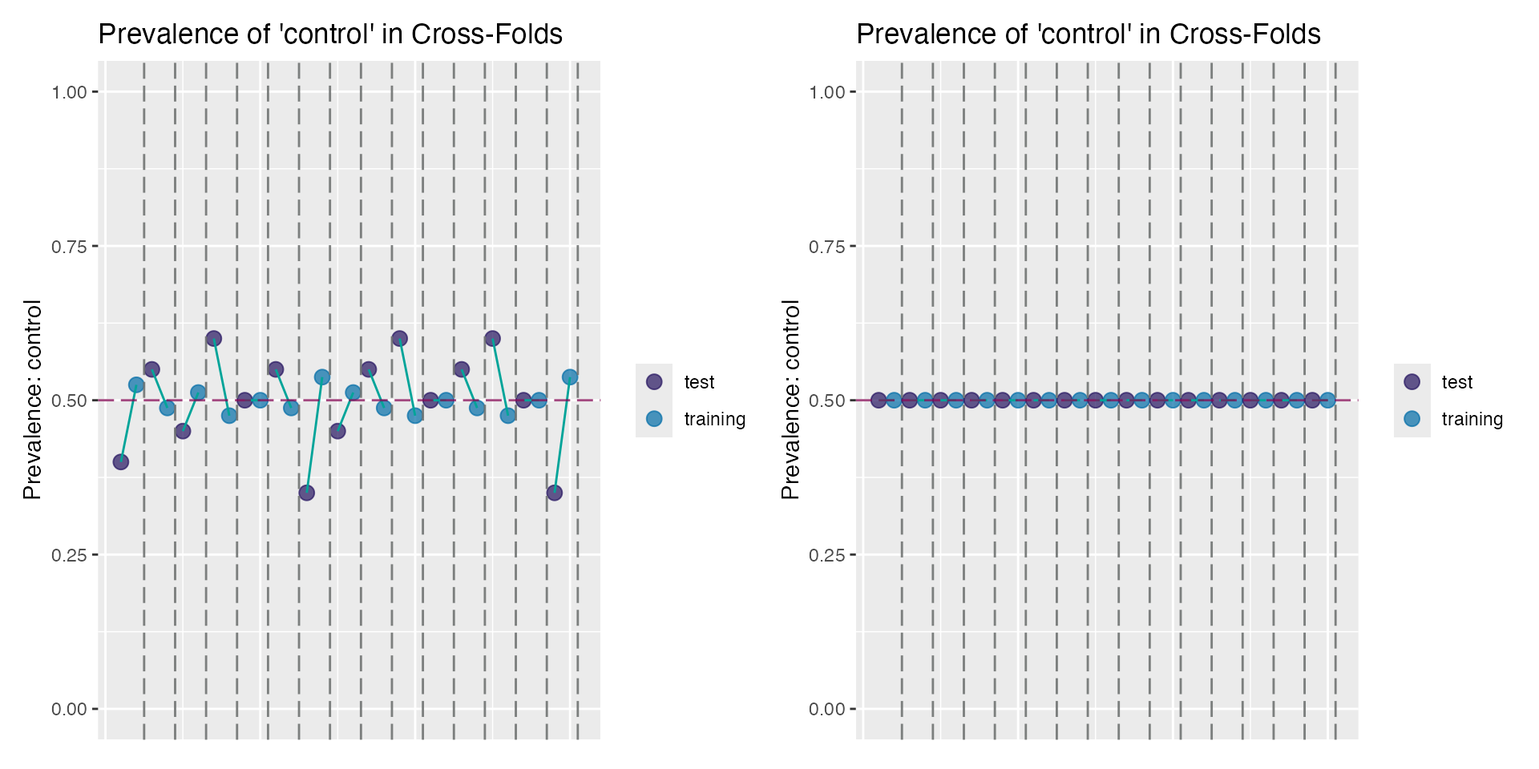
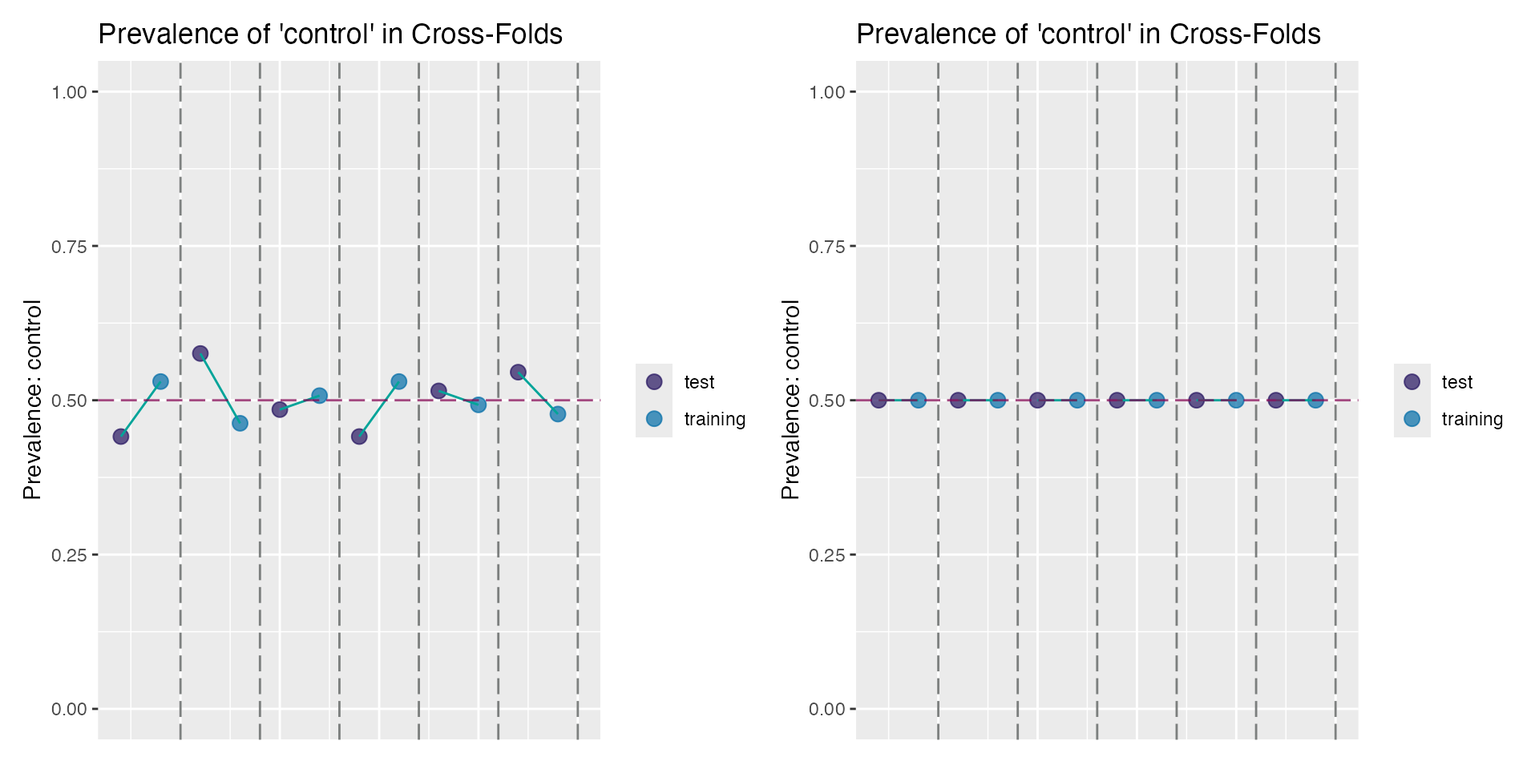
Built site for featureselectr@0.0.1.9001: 60847ba

Changed region(s): [[0.0625, 0.0938, 0.375, 0.9688], [0.5625, 0.0938, 0.875, 0.9688]]

diff --git a/dev/reference/get_fs_features.html b/dev/reference/get_fs_features.html
@@ -1,7 +1,7 @@
 <!DOCTYPE html>
-<!-- Generated by pkgdown: do not edit by hand --><html lang="en"><head><meta http-equiv="Content-Type" content="text/html; charset=UTF-8"><meta charset="utf-8"><meta http-equiv="X-UA-Compatible" content="IE=edge"><meta name="viewport" content="width=device-width, initial-scale=1, shrink-to-fit=no"><title>Get Feature Selection Markers — get_fs_features • featureselectr</title><script src="../deps/jquery-3.6.0/jquery-3.6.0.min.js"></script><meta name="viewport" content="width=device-width, initial-scale=1, shrink-to-fit=no"><link href="../deps/bootstrap-5.3.1/bootstrap.min.css" rel="stylesheet"><script src="../deps/bootstrap-5.3.1/bootstrap.bundle.min.js"></script><link href="../deps/Roboto-0.4.9/font.css" rel="stylesheet"><link href="../deps/Source_Code_Pro-0.4.9/font.css" rel="stylesheet"><link href="../deps/font-awesome-6.5.2/css/all.min.css" rel="stylesheet"><link href="../deps/font-awesome-6.5.2/css/v4-shims.min.css" rel="stylesheet"><script src="../deps/headroom-0.11.0/headroom.min.js"></script><script src="../deps/headroom-0.11.0/jQuery.headroom.min.js"></script><script src="../deps/bootstrap-toc-1.0.1/bootstrap-toc.min.js"></script><script src="../deps/clipboard.js-2.0.11/clipboard.min.js"></script><script src="../deps/search-1.0.0/autocomplete.jquery.min.js"></script><script src="../deps/search-1.0.0/fuse.min.js"></script><script src="../deps/search-1.0.0/mark.min.js"></script><!-- pkgdown --><script src="../pkgdown.js"></script><meta property="og:title" content="Get Feature Selection Markers — get_fs_features"><meta name="description" content="Function to return the maximum, se1, and se2 features from either
-forward or backward selection from a feature_select object."><meta property="og:description" content="Function to return the maximum, se1, and se2 features from either
-forward or backward selection from a feature_select object."><meta name="robots" content="noindex"></head><body>
+<!-- Generated by pkgdown: do not edit by hand --><html lang="en"><head><meta http-equiv="Content-Type" content="text/html; charset=UTF-8"><meta charset="utf-8"><meta http-equiv="X-UA-Compatible" content="IE=edge"><meta name="viewport" content="width=device-width, initial-scale=1, shrink-to-fit=no"><title>Get Feature Selection Markers — get_fs_features • featureselectr</title><script src="../deps/jquery-3.6.0/jquery-3.6.0.min.js"></script><meta name="viewport" content="width=device-width, initial-scale=1, shrink-to-fit=no"><link href="../deps/bootstrap-5.3.1/bootstrap.min.css" rel="stylesheet"><script src="../deps/bootstrap-5.3.1/bootstrap.bundle.min.js"></script><link href="../deps/Roboto-0.4.9/font.css" rel="stylesheet"><link href="../deps/Source_Code_Pro-0.4.9/font.css" rel="stylesheet"><link href="../deps/font-awesome-6.5.2/css/all.min.css" rel="stylesheet"><link href="../deps/font-awesome-6.5.2/css/v4-shims.min.css" rel="stylesheet"><script src="../deps/headroom-0.11.0/headroom.min.js"></script><script src="../deps/headroom-0.11.0/jQuery.headroom.min.js"></script><script src="../deps/bootstrap-toc-1.0.1/bootstrap-toc.min.js"></script><script src="../deps/clipboard.js-2.0.11/clipboard.min.js"></script><script src="../deps/search-1.0.0/autocomplete.jquery.min.js"></script><script src="../deps/search-1.0.0/fuse.min.js"></script><script src="../deps/search-1.0.0/mark.min.js"></script><!-- pkgdown --><script src="../pkgdown.js"></script><meta property="og:title" content="Get Feature Selection Markers — get_fs_features"><meta name="description" content="Returns the maximum, se1, and se2 features from
+a completed feature_select object."><meta property="og:description" content="Returns the maximum, se1, and se2 features from
+a completed feature_select object."><meta name="robots" content="noindex"></head><body>
     <a href="#container" class="visually-hidden-focusable">Skip to content</a>
 
 
@@ -36,8 +36,8 @@ forward or backward selection from a feature_select object."><meta name="robots"
     </div>
 
     <div class="ref-description section level2">
-    <p>Function to return the maximum, se1, and se2 features from either
-forward or backward selection from a <code>feature_select</code> object.</p>
+    <p>Returns the <code>maximum</code>, <code>se1</code>, and <code>se2</code> features from
+a completed <code>feature_select</code> object.</p>
     </div>
 
     <div class="section level2">
@@ -50,7 +50,8 @@ forward or backward selection from a <code>feature_select</code> object.</p>
 
 
 <dl><dt id="arg-x">x<a class="anchor" aria-label="anchor" href="#arg-x"></a></dt>
-<dd><p>A <code>feature_select</code> search object.</p></dd>
+<dd><p>A <code>feature_select</code> class object from a call
+call to <code><a href="feature_selection.html">feature_selection()</a></code>.</p></dd>
 
 </dl></div>
     <div class="section level2">
@@ -75,12 +76,11 @@ cost function.</p></dd>
     <div class="section level2">
     <h2 id="ref-examples">Examples<a class="anchor" aria-label="anchor" href="#ref-examples"></a></h2>
     <div class="sourceCode"><pre class="sourceCode r"><code><span class="r-in"><span><span class="va">data</span>  <span class="op">&lt;-</span> <span class="fu">wranglr</span><span class="fu">::</span><span class="va"><a href="https://stufield.github.io/wranglr/reference/simdata.html" class="external-link">simdata</a></span></span></span>
-<span class="r-in"><span><span class="va">feats</span> <span class="op">&lt;-</span> <span class="fu"><a href="https://rdrr.io/r/base/attributes.html" class="external-link">attributes</a></span><span class="op">(</span><span class="va">data</span><span class="op">)</span><span class="op">$</span><span class="va">sig_feats</span><span class="op">$</span><span class="va">class</span></span></span>
+<span class="r-in"><span><span class="va">feats</span> <span class="op">&lt;-</span> <span class="fu"><a href="https://rdrr.io/r/base/attr.html" class="external-link">attr</a></span><span class="op">(</span><span class="va">data</span>, <span class="st">"sig_feats"</span><span class="op">)</span><span class="op">$</span><span class="va">class</span></span></span>
 <span class="r-in"><span><span class="va">fs</span> <span class="op">&lt;-</span> <span class="fu"><a href="feature_selection.html">feature_selection</a></span><span class="op">(</span><span class="va">data</span>, candidate_features <span class="op">=</span> <span class="va">feats</span>,</span></span>
 <span class="r-in"><span>                        search_type <span class="op">=</span> <span class="fu"><a href="search_type.html">search_type_forward_model</a></span><span class="op">(</span><span class="op">)</span>,</span></span>
 <span class="r-in"><span>                        model_type  <span class="op">=</span> <span class="fu"><a href="model_type.html">model_type_lr</a></span><span class="op">(</span><span class="st">"class_response"</span><span class="op">)</span>,</span></span>
-<span class="r-in"><span>                        stratified  <span class="op">=</span> <span class="cn">TRUE</span>, cost <span class="op">=</span> <span class="st">"AUC"</span>,</span></span>
-<span class="r-in"><span>                        runs <span class="op">=</span> <span class="fl">2L</span>, folds <span class="op">=</span> <span class="fl">2L</span><span class="op">)</span></span></span>
+<span class="r-in"><span>                        stratify    <span class="op">=</span> <span class="cn">TRUE</span>, runs <span class="op">=</span> <span class="fl">2L</span>, folds <span class="op">=</span> <span class="fl">2L</span><span class="op">)</span></span></span>
 <span class="r-in"><span><span class="va">fs_obj</span> <span class="op">&lt;-</span> <span class="fu"><a href="Search.html">Search</a></span><span class="op">(</span><span class="va">fs</span><span class="op">)</span></span></span>
 <span class="r-msg co"><span class="r-pr">#&gt;</span> <span style="color: #00BBBB;">ℹ</span> <span style="color: #0000BB; font-weight: bold;">Starting the Feature Selection algorithm ...</span></span>
 <span class="r-msg co"><span class="r-pr">#&gt;</span> <span style="color: #BB00BB;">──</span> Using `Forward-Stepwise` model search <span style="color: #BB00BB;">──────────────────────────────</span></span>

diff --git a/dev/reference/feature_selection.html b/dev/reference/feature_selection.html
@@ -57,7 +57,7 @@ cost function, and an underlying data structure for use by other functions.</p>
 <span>  folds <span class="op">=</span> <span class="fl">1L</span>,</span>
 <span>  cost <span class="op">=</span> <span class="fu"><a href="https://rdrr.io/r/base/c.html" class="external-link">c</a></span><span class="op">(</span><span class="st">"AUC"</span>, <span class="st">"R2"</span>, <span class="st">"CCC"</span>, <span class="st">"MSE"</span>, <span class="st">"sens"</span>, <span class="st">"spec"</span><span class="op">)</span>,</span>
 <span>  bootstrap <span class="op">=</span> <span class="cn">FALSE</span>,</span>
-<span>  stratified <span class="op">=</span> <span class="cn">FALSE</span>,</span>
+<span>  stratify <span class="op">=</span> <span class="cn">FALSE</span>,</span>
 <span>  strat_column <span class="op">=</span> <span class="cn">NULL</span>,</span>
 <span>  random_seed <span class="op">=</span> <span class="fl">101L</span></span>
 <span><span class="op">)</span></span>
@@ -96,7 +96,7 @@ call to one of the <code><a href="search_type.html">search_type()</a></code> fun
 
 
 <dt id="arg-runs">runs<a class="anchor" aria-label="anchor" href="#arg-runs"></a></dt>
-<dd><p><code>integer(1)</code>. How many runs to perform.</p></dd>
+<dd><p><code>integer(1)</code>. How many runs (repeats) to perform.</p></dd>
 
 
 <dt id="arg-folds">folds<a class="anchor" aria-label="anchor" href="#arg-folds"></a></dt>
@@ -132,15 +132,15 @@ with replacement to generate a training set of equivalent size.
 The samples not chosen during sampling make up the test set.</p></dd>
 
 
-<dt id="arg-stratified">stratified<a class="anchor" aria-label="anchor" href="#arg-stratified"></a></dt>
+<dt id="arg-stratify">stratify<a class="anchor" aria-label="anchor" href="#arg-stratify"></a></dt>
 <dd><p><code>logical(1)</code>. Should cross-validation folds be
 stratified based upon the column specified in <code>strat_column</code>?</p></dd>
 
 
 <dt id="arg-strat-column">strat_column<a class="anchor" aria-label="anchor" href="#arg-strat-column"></a></dt>
 <dd><p><code>character(1)</code>. Which column to use for stratification
-of cross-validation. If <code>NULL</code> (default), column name
-<code>"Response"</code> will be used (and thus must be present).</p></dd>
+of cross-validation. If <code>NULL</code> (default), column name corresponding
+to the <code>response</code> parameter from the <code><a href="model_type.html">?model_type</a></code> will be used.</p></dd>
 
 
 <dt id="arg-random-seed">random_seed<a class="anchor" aria-label="anchor" href="#arg-random-seed"></a></dt>
@@ -232,7 +232,7 @@ Elements of Statistical Learning: Data Mining, Inference, and Prediction.
 <span class="r-in"><span><span class="co"># Setup response variable</span></span></span>
 <span class="r-in"><span><span class="va">data</span><span class="op">$</span><span class="va">class_response</span> <span class="op">&lt;-</span> <span class="fu"><a href="https://rdrr.io/r/base/factor.html" class="external-link">factor</a></span><span class="op">(</span><span class="va">data</span><span class="op">$</span><span class="va">class_response</span><span class="op">)</span></span></span>
 <span class="r-in"><span></span></span>
-<span class="r-in"><span><span class="va">mt</span> <span class="op">&lt;-</span> <span class="fu"><a href="model_type.html">model_type_lr</a></span><span class="op">(</span>response <span class="op">=</span> <span class="st">"class_response"</span><span class="op">)</span></span></span>
+<span class="r-in"><span><span class="va">mt</span> <span class="op">&lt;-</span> <span class="fu"><a href="model_type.html">model_type_lr</a></span><span class="op">(</span><span class="st">"class_response"</span><span class="op">)</span></span></span>
 <span class="r-in"><span><span class="va">cf</span> <span class="op">&lt;-</span> <span class="st">"sens"</span></span></span>
 <span class="r-in"><span><span class="va">sm</span> <span class="op">&lt;-</span> <span class="fu"><a href="search_type.html">search_type_forward_model</a></span><span class="op">(</span><span class="fl">15L</span>, display_name <span class="op">=</span> <span class="st">"Feature Selection Algorithm"</span><span class="op">)</span></span></span>
 <span class="r-in"><span><span class="va">ft</span> <span class="op">&lt;-</span> <span class="fu">helpr</span><span class="fu">:::</span><span class="fu">get_analytes</span><span class="op">(</span><span class="va">data</span><span class="op">)</span>   <span class="co"># select candidate features</span></span></span>
@@ -262,7 +262,7 @@ Elements of Statistical Learning: Data Mining, Inference, and Prediction.
 <span class="r-in"><span></span></span>
 <span class="r-in"><span><span class="co"># Using the S3 Update method to modify existing `feature_select` object:</span></span></span>
 <span class="r-in"><span><span class="co">#   change model type, cost function, and random seed</span></span></span>
-<span class="r-in"><span><span class="va">fs2</span> <span class="op">&lt;-</span> <span class="fu"><a href="https://rdrr.io/r/stats/update.html" class="external-link">update</a></span><span class="op">(</span><span class="va">fs</span>, model_type <span class="op">=</span> <span class="fu"><a href="model_type.html">model_type_nb</a></span><span class="op">(</span>response <span class="op">=</span> <span class="st">"class_response"</span><span class="op">)</span>,</span></span>
+<span class="r-in"><span><span class="va">fs2</span> <span class="op">&lt;-</span> <span class="fu"><a href="https://rdrr.io/r/stats/update.html" class="external-link">update</a></span><span class="op">(</span><span class="va">fs</span>, model_type <span class="op">=</span> <span class="fu"><a href="model_type.html">model_type_nb</a></span><span class="op">(</span><span class="st">"class_response"</span><span class="op">)</span>,</span></span>
 <span class="r-in"><span>              cost <span class="op">=</span> <span class="st">"AUC"</span>, random_seed <span class="op">=</span> <span class="fl">99L</span><span class="op">)</span></span></span>
 <span class="r-in"><span><span class="va">fs2</span></span></span>
 <span class="r-msg co"><span class="r-pr">#&gt;</span> <span style="color: #BB00BB;">══</span> Feature Selection Object <span style="color: #BB00BB;">═══════════════════════════════════════════</span></span>

diff --git a/dev/reference/setup_cross.html b/dev/reference/setup_cross.html
@@ -1,7 +1,23 @@
 <!DOCTYPE html>
-<!-- Generated by pkgdown: do not edit by hand --><html lang="en"><head><meta http-equiv="Content-Type" content="text/html; charset=UTF-8"><meta charset="utf-8"><meta http-equiv="X-UA-Compatible" content="IE=edge"><meta name="viewport" content="width=device-width, initial-scale=1, shrink-to-fit=no"><title>Set up Cross-Validation Folds — setup_cross • featureselectr</title><script src="../deps/jquery-3.6.0/jquery-3.6.0.min.js"></script><meta name="viewport" content="width=device-width, initial-scale=1, shrink-to-fit=no"><link href="../deps/bootstrap-5.3.1/bootstrap.min.css" rel="stylesheet"><script src="../deps/bootstrap-5.3.1/bootstrap.bundle.min.js"></script><link href="../deps/Roboto-0.4.9/font.css" rel="stylesheet"><link href="../deps/Source_Code_Pro-0.4.9/font.css" rel="stylesheet"><link href="../deps/font-awesome-6.5.2/css/all.min.css" rel="stylesheet"><link href="../deps/font-awesome-6.5.2/css/v4-shims.min.css" rel="stylesheet"><script src="../deps/headroom-0.11.0/headroom.min.js"></script><script src="../deps/headroom-0.11.0/jQuery.headroom.min.js"></script><script src="../deps/bootstrap-toc-1.0.1/bootstrap-toc.min.js"></script><script src="../deps/clipboard.js-2.0.11/clipboard.min.js"></script><script src="../deps/search-1.0.0/autocomplete.jquery.min.js"></script><script src="../deps/search-1.0.0/fuse.min.js"></script><script src="../deps/search-1.0.0/mark.min.js"></script><!-- pkgdown --><script src="../pkgdown.js"></script><meta property="og:title" content="Set up Cross-Validation Folds — setup_cross"><meta name="description" content="This S3 method sets up the internal the non-stratified cross-validation.
-Since these are mostly internal methods, documentation is minimal."><meta property="og:description" content="This S3 method sets up the internal the non-stratified cross-validation.
-Since these are mostly internal methods, documentation is minimal."><meta name="robots" content="noindex"></head><body>
+<!-- Generated by pkgdown: do not edit by hand --><html lang="en"><head><meta http-equiv="Content-Type" content="text/html; charset=UTF-8"><meta charset="utf-8"><meta http-equiv="X-UA-Compatible" content="IE=edge"><meta name="viewport" content="width=device-width, initial-scale=1, shrink-to-fit=no"><title>Set up Cross-Validation Folds — setup_cross • featureselectr</title><script src="../deps/jquery-3.6.0/jquery-3.6.0.min.js"></script><meta name="viewport" content="width=device-width, initial-scale=1, shrink-to-fit=no"><link href="../deps/bootstrap-5.3.1/bootstrap.min.css" rel="stylesheet"><script src="../deps/bootstrap-5.3.1/bootstrap.bundle.min.js"></script><link href="../deps/Roboto-0.4.9/font.css" rel="stylesheet"><link href="../deps/Source_Code_Pro-0.4.9/font.css" rel="stylesheet"><link href="../deps/font-awesome-6.5.2/css/all.min.css" rel="stylesheet"><link href="../deps/font-awesome-6.5.2/css/v4-shims.min.css" rel="stylesheet"><script src="../deps/headroom-0.11.0/headroom.min.js"></script><script src="../deps/headroom-0.11.0/jQuery.headroom.min.js"></script><script src="../deps/bootstrap-toc-1.0.1/bootstrap-toc.min.js"></script><script src="../deps/clipboard.js-2.0.11/clipboard.min.js"></script><script src="../deps/search-1.0.0/autocomplete.jquery.min.js"></script><script src="../deps/search-1.0.0/fuse.min.js"></script><script src="../deps/search-1.0.0/mark.min.js"></script><!-- pkgdown --><script src="../pkgdown.js"></script><meta property="og:title" content="Set up Cross-Validation Folds — setup_cross"><meta name="description" content="These S3 methods set up the internal cross-validation.
+Methods exist for both stratified and non-stratified scenarios.
+Since these are mostly internal methods, documentation is minimal.
+The stratified version is a S3 method that sets up the
+internal cross-validation for stratified folds.
+Stratified implies that the structure (proportions) of the response
+variable is maintained (i.e. the proportion of disease samples in the
+fold is comparable to the disease proportion in the full training set).
+The plotting routine allows one to visually check
+the cross-validation stratification for bias."><meta property="og:description" content="These S3 methods set up the internal cross-validation.
+Methods exist for both stratified and non-stratified scenarios.
+Since these are mostly internal methods, documentation is minimal.
+The stratified version is a S3 method that sets up the
+internal cross-validation for stratified folds.
+Stratified implies that the structure (proportions) of the response
+variable is maintained (i.e. the proportion of disease samples in the
+fold is comparable to the disease proportion in the full training set).
+The plotting routine allows one to visually check
+the cross-validation stratification for bias."><meta name="robots" content="noindex"></head><body>
     <a href="#container" class="visually-hidden-focusable">Skip to content</a>
 
 
@@ -36,8 +52,16 @@ Since these are mostly internal methods, documentation is minimal."><meta name="
     </div>
 
     <div class="ref-description section level2">
-    <p>This S3 method sets up the internal the <em>non-stratified</em> cross-validation.
+    <p>These S3 methods set up the internal cross-validation.
+Methods exist for both <em>stratified</em> and <em>non-stratified</em> scenarios.
 Since these are mostly internal methods, documentation is minimal.</p>
+<p>The <em>stratified</em> version is a S3 method that sets up the
+internal cross-validation for stratified folds.
+Stratified implies that the structure (proportions) of the response
+variable is maintained (i.e. the proportion of disease samples in the
+fold is comparable to the disease proportion in the full training set).</p>
+<p>The plotting routine allows one to visually check
+the cross-validation stratification for bias.</p>
     </div>
 
     <div class="section level2">
@@ -54,7 +78,8 @@ Since these are mostly internal methods, documentation is minimal.</p>
 
 
 <dl><dt id="arg-x">x<a class="anchor" aria-label="anchor" href="#arg-x"></a></dt>
-<dd><p>A <code>feature_select</code> class object.</p></dd>
+<dd><p>A <code>feature_select</code> class object from a call
+call to <code><a href="feature_selection.html">feature_selection()</a></code>.</p></dd>
 
 </dl></div>
     <div class="section level2">

diff --git a/dev/reference/Search.html b/dev/reference/Search.html
@@ -165,17 +165,16 @@ setting global options:</p>
 <span class="r-in"><span></span></span>
 <span class="r-in"><span><span class="co"># Setup response variable</span></span></span>
 <span class="r-in"><span><span class="va">data</span><span class="op">$</span><span class="va">class_response</span> <span class="op">&lt;-</span> <span class="fu"><a href="https://rdrr.io/r/base/factor.html" class="external-link">as.factor</a></span><span class="op">(</span><span class="va">data</span><span class="op">$</span><span class="va">class_response</span><span class="op">)</span></span></span>
-<span class="r-in"><span><span class="va">mt</span>  <span class="op">&lt;-</span> <span class="fu"><a href="model_type.html">model_type_lr</a></span><span class="op">(</span>response <span class="op">=</span> <span class="st">"class_response"</span><span class="op">)</span></span></span>
-<span class="r-in"><span><span class="va">cst</span> <span class="op">&lt;-</span> <span class="st">"AUC"</span></span></span>
-<span class="r-in"><span><span class="va">sm</span>  <span class="op">&lt;-</span> <span class="fu"><a href="search_type.html">search_type_forward_model</a></span><span class="op">(</span><span class="fl">10L</span>, display_name <span class="op">=</span> <span class="st">"Feature Selection Algorithm"</span><span class="op">)</span></span></span>
+<span class="r-in"><span><span class="va">mt</span>  <span class="op">&lt;-</span> <span class="fu"><a href="model_type.html">model_type_lr</a></span><span class="op">(</span><span class="st">"class_response"</span><span class="op">)</span></span></span>
+<span class="r-in"><span><span class="va">sm</span>  <span class="op">&lt;-</span> <span class="fu"><a href="search_type.html">search_type_forward_model</a></span><span class="op">(</span><span class="st">"Feature Selection Algorithm"</span>, <span class="fl">10L</span><span class="op">)</span></span></span>
 <span class="r-in"><span><span class="va">ft</span>  <span class="op">&lt;-</span> <span class="fu"><a href="https://rdrr.io/r/utils/head.html" class="external-link">head</a></span><span class="op">(</span><span class="fu">helpr</span><span class="fu">:::</span><span class="fu">get_analytes</span><span class="op">(</span><span class="va">data</span><span class="op">)</span><span class="op">)</span>  <span class="co"># select candidate features</span></span></span>
 <span class="r-in"><span><span class="va">mcp</span> <span class="op">&lt;-</span> <span class="fu"><a href="feature_selection.html">feature_selection</a></span><span class="op">(</span><span class="va">data</span>,</span></span>
 <span class="r-in"><span>                         candidate_features <span class="op">=</span> <span class="va">ft</span>,</span></span>
 <span class="r-in"><span>                         model_type <span class="op">=</span> <span class="va">mt</span>,</span></span>
 <span class="r-in"><span>                         search_type <span class="op">=</span> <span class="va">sm</span>,</span></span>
-<span class="r-in"><span>                         cost <span class="op">=</span> <span class="va">cst</span>,</span></span>
-<span class="r-in"><span>                         strat_column <span class="op">=</span> <span class="st">"class_response"</span>,</span></span>
-<span class="r-in"><span>                         runs <span class="op">=</span> <span class="fl">4L</span>, folds <span class="op">=</span> <span class="fl">3L</span>, random_seed <span class="op">=</span> <span class="fl">99L</span><span class="op">)</span></span></span>
+<span class="r-in"><span>                         cost <span class="op">=</span> <span class="st">"AUC"</span>,</span></span>
+<span class="r-in"><span>                         runs <span class="op">=</span> <span class="fl">4L</span>, folds <span class="op">=</span> <span class="fl">3L</span>,</span></span>
+<span class="r-in"><span>                         random_seed <span class="op">=</span> <span class="fl">101L</span><span class="op">)</span></span></span>
 <span class="r-in"><span></span></span>
 <span class="r-in"><span><span class="va">fs</span> <span class="op">&lt;-</span> <span class="fu">Search</span><span class="op">(</span><span class="va">mcp</span><span class="op">)</span></span></span>
 <span class="r-msg co"><span class="r-pr">#&gt;</span> <span style="color: #00BBBB;">ℹ</span> <span style="color: #0000BB; font-weight: bold;">Starting the Feature Selection algorithm ...</span></span>
@@ -201,7 +200,7 @@ setting global options:</p>
 <span class="r-out co"><span class="r-pr">#&gt;</span> <span style="color: #BB0000;">•</span> Model Type                <span style="color: #0000BB;">'fs_lr'</span></span>
 <span class="r-out co"><span class="r-pr">#&gt;</span> <span style="color: #BB0000;">•</span> Search Type               <span style="color: #0000BB;">'fs_forward_model'</span></span>
 <span class="r-out co"><span class="r-pr">#&gt;</span> <span style="color: #BB0000;">•</span> Cost Function             <span style="color: #0000BB;">'AUC'</span></span>
-<span class="r-out co"><span class="r-pr">#&gt;</span> <span style="color: #BB0000;">•</span> Random Seed               <span style="color: #0000BB;">'99'</span></span>
+<span class="r-out co"><span class="r-pr">#&gt;</span> <span style="color: #BB0000;">•</span> Random Seed               <span style="color: #0000BB;">'101'</span></span>
 <span class="r-out co"><span class="r-pr">#&gt;</span> <span style="color: #BB0000;">•</span> Display Name              <span style="color: #0000BB;">'Feature Selection Algorithm'</span></span>
 <span class="r-out co"><span class="r-pr">#&gt;</span> <span style="color: #BB0000;">•</span> Search Complete           <span style="color: #0000BB;">'TRUE'</span></span>
 <span class="r-msg co"><span class="r-pr">#&gt;</span> <span style="color: #00BB00;">═══════════════════════════════════════════════════════════════════════</span></span>

diff --git a/dev/articles/featureselectr.html b/dev/articles/featureselectr.html
@@ -259,9 +259,9 @@ CI95%).</p>
 <div class="sourceCode" id="cb6"><pre class="downlit sourceCode r">
 <code class="sourceCode R"><span><span class="va">fs_update</span> <span class="op">&lt;-</span> <span class="fu"><a href="https://rdrr.io/r/stats/update.html" class="external-link">update</a></span><span class="op">(</span></span>
 <span>  <span class="va">fs_setup</span>,   <span class="co"># the `feature_selection` object being modified</span></span>
-<span>  model_type  <span class="op">=</span> <span class="fu"><a href="../reference/model_type.html">model_type_lr</a></span><span class="op">(</span>response <span class="op">=</span> <span class="st">"class_response"</span><span class="op">)</span>, <span class="co"># logistic reg</span></span>
+<span>  model_type  <span class="op">=</span> <span class="fu"><a href="../reference/model_type.html">model_type_lr</a></span><span class="op">(</span><span class="st">"class_response"</span><span class="op">)</span>, <span class="co"># logistic reg</span></span>
 <span>  search_type <span class="op">=</span> <span class="fu"><a href="../reference/search_type.html">search_type_forward_model</a></span><span class="op">(</span>max_steps <span class="op">=</span> <span class="fl">15L</span><span class="op">)</span>, <span class="co"># increase max steps</span></span>
-<span>  stratified  <span class="op">=</span> <span class="cn">TRUE</span>   <span class="co"># now stratify</span></span>
+<span>  stratify    <span class="op">=</span> <span class="cn">TRUE</span>   <span class="co"># now stratify</span></span>
 <span><span class="op">)</span></span>
 <span></span>
 <span><span class="va">fs_update</span></span>
@@ -304,11 +304,17 @@ CI95%).</p>
 cross-validation folds based on the proportion of binary classes (for
 classification problems).</p>
 <p>This should be most evident when comparing the folds with and without
-forced stratification. Below is a plot of the cross-validation folds
-without stratification (left) and after an update to the original
-<code>fs_setup</code> object to include stratification (right):</p>
+forced stratification. Below is a sample plot of the cross-validation
+folds <em>without</em> stratification (left) and after an update to the
+object to <em>include</em> stratification (right):</p>
 <div class="sourceCode" id="cb9"><pre class="downlit sourceCode r">
-<code class="sourceCode R"><span><span class="fu"><a href="../reference/setup_cross.html">plot_cross</a></span><span class="op">(</span><span class="va">fs_setup</span><span class="op">)</span> <span class="op">+</span> <span class="fu"><a href="../reference/setup_cross.html">plot_cross</a></span><span class="op">(</span><span class="va">fs_update</span><span class="op">)</span></span></code></pre></div>
+<code class="sourceCode R"><span><span class="va">no_strat</span> <span class="op">&lt;-</span> <span class="fu"><a href="../reference/feature_selection.html">feature_selection</a></span><span class="op">(</span></span>
+<span>  <span class="va">data</span>, candidate_features <span class="op">=</span> <span class="va">feats</span>,</span>
+<span>  model_type <span class="op">=</span> <span class="va">mt</span>, search_type <span class="op">=</span> <span class="va">sm</span>,</span>
+<span>  runs  <span class="op">=</span> <span class="fl">2L</span>, folds <span class="op">=</span> <span class="fl">3L</span></span>
+<span><span class="op">)</span></span>
+<span><span class="va">with_strat</span> <span class="op">&lt;-</span> <span class="fu"><a href="https://rdrr.io/r/stats/update.html" class="external-link">update</a></span><span class="op">(</span><span class="va">no_strat</span>, stratify <span class="op">=</span> <span class="cn">TRUE</span><span class="op">)</span></span>
+<span><span class="fu"><a href="../reference/setup_cross.html">plot_cross</a></span><span class="op">(</span><span class="va">no_strat</span><span class="op">)</span> <span class="op">+</span> <span class="fu"><a href="../reference/setup_cross.html">plot_cross</a></span><span class="op">(</span><span class="va">with_strat</span><span class="op">)</span></span></code></pre></div>
 <p><img src="featureselectr_files/figure-html/plot-cross-1.png" width="100%"></p>
 </div>
   </main><aside class="col-md-3"><nav id="toc" aria-label="Table of contents"><h2>On this page</h2>

diff --git a/dev/reference/model_type.html b/dev/reference/model_type.html
@@ -69,7 +69,8 @@ especially if called upon a <code>tr_data</code> class object (see <span class="
 
 <dl><dt id="arg-response">response<a class="anchor" aria-label="anchor" href="#arg-response"></a></dt>
 <dd><p><code>character(1)</code>. The string of the column name to use as the
-response variable. Assumed to be a binary factor type.</p></dd>
+response variable. Assumed to be a binary factor type unless
+linear regression is desired.</p></dd>
 
 </dl></div>
     <div class="section level2">
